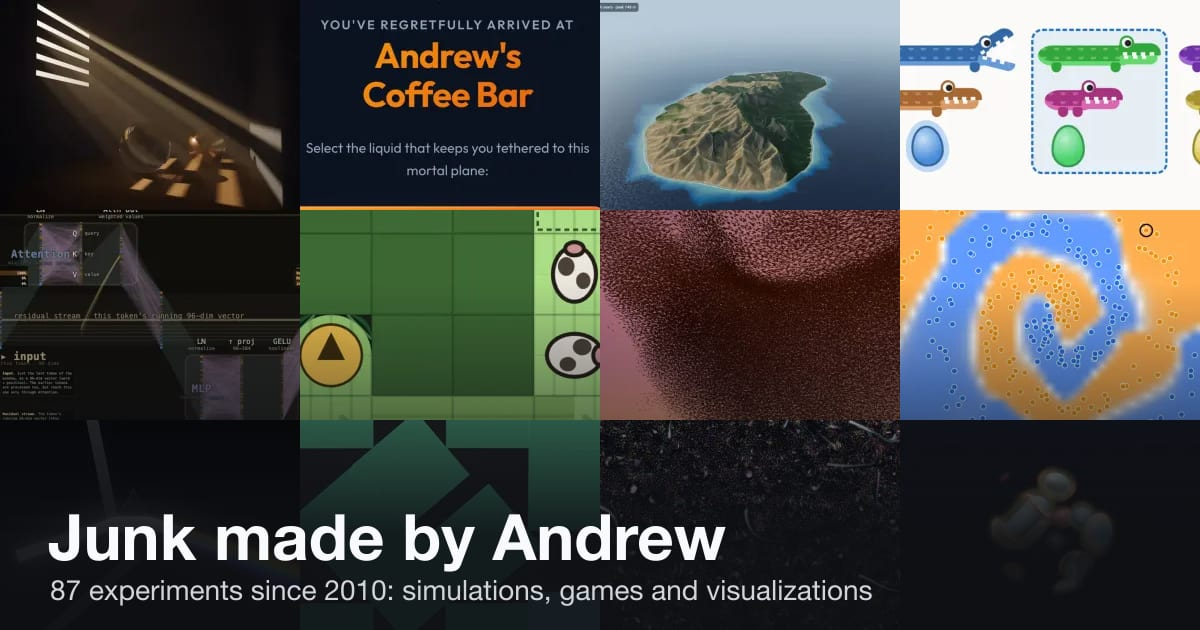
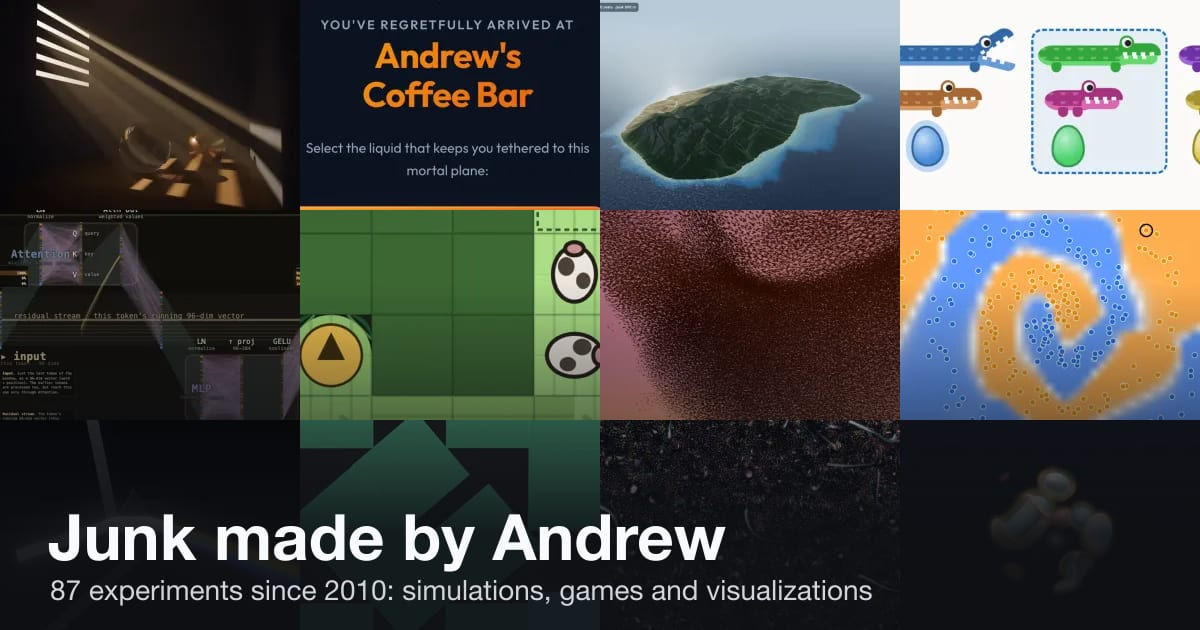
island: README and screenshot for rain drift, river channels and lakes

Changed region(s): [[0.4933, 0.0603, 0.74, 0.3317]]

diff --git a/island/README.md b/island/README.md
@@ -6,12 +6,14 @@ dh/dt = U − K Q^m · S + D ∇²h
 
 where U is uplift, Q is the river's discharge (all the rain falling upstream of a point), S is the slope to the next point downstream and D is how fast soil creeps. River cutting is solved implicitly down the drainage tree (Braun & Willett 2013, the method behind FastScape), so it is stable with 2,000-year steps. Hollows fill into lakes that spill over their lowest rim (priority flood, Barnes 2014), and rivers end at the sea, which they can't cut below.
 
-What the rivers cut away travels downstream and settles in still water: lakes fill in from where rivers enter, and at the coast it spreads down a gentle slope from each river mouth into a shelf. Rain comes in on the wind. Air climbing the island's broad slopes drops more rain, and it dries out as it crosses, so the windward side is wet and the lee is dry. It cools 6.5 °C per kilometer of height. Plants and soil send part of the rain back to the air, following Budyko's curve, so only the rest reaches rivers: in hot, dry places that's almost none on average, though bare ground still sheds up to 30% of its rain in storms. Plant cover follows how the rain compares with what warm air could take up, and roots hold soil, so bare ground erodes about 7 times faster than forest. Biomes come from the same two numbers (Whittaker's biomes, with UNEP's aridity bands): rainforest, forest, conifer forest, savanna, grassland, dry scrub, desert, tundra, and ice and snow. The **Rain** setting is the average over the land; tap a spot to see what grows there and how much rain falls. Turn down the rain to watch the lee become desert badlands, or the temperature to bring tundra down to the coast and snow onto the peaks.
+What the rivers cut away travels downstream and settles in still water: lakes fill in from where rivers enter, and at the coast it spreads down a gentle slope from each river mouth into a shelf. Rain comes in on the wind. Air climbing the island's broad slopes condenses into cloud, which rains out as it drifts on over about a kilometer, so rain spills a little way past each ridge and fades into the lee instead of stopping at the crest. The air dries out as it crosses, so the windward side is wet and the lee is dry. It cools 6.5 °C per kilometer of height. Plants and soil send part of the rain back to the air, following Budyko's curve, so only the rest reaches rivers: in hot, dry places that's almost none on average, though bare ground still sheds up to 30% of its rain in storms. Plant cover follows how the rain compares with what warm air could take up, and roots hold soil, so bare ground erodes about 7 times faster than forest. Biomes come from the same two numbers (Whittaker's biomes, with UNEP's aridity bands): rainforest, forest, conifer forest, savanna, grassland, dry scrub, desert, tundra, and ice and snow. The **Rain** setting is the average over the land; tap a spot to see what grows there and how much rain falls. Turn down the rain to watch the lee become desert badlands, or the temperature to bring tundra down to the coast and snow onto the peaks.
 
 `node island/test.js` checks that at steady state every river's slope matches the exact answer U / (K Q^m), that sediment is conserved to a part in 10¹³, that the windward side is wetter, that Budyko's evaporation hits its known points, and that erosion peaks in semi-arid climates, as Langbein and Schumm found in real river basins (near 300 mm of rain a year), because there's runoff to move soil but too little for plants to hold it.
 
 Tap or click the land to follow a raindrop to the sea and see how much water flows past. Pick **Raise** or **Lower** to sculpt (drag to paint; on a phone, two fingers still zoom and pan), and watch the rivers find new routes. Lower the sea to expose the shelf, or raise it to drown the valleys. The camera drifts around the island until you take it. Space pauses. The URL keeps the island's seed and any changed settings.
 
-The simulation runs on a 256 or 384 point grid (33–50 m apart). The GPU draws the ground three times finer, interpolates the simulated heights smoothly, and adds fine ridged relief that's strongest on steep slopes and smoothed out along valley floors. It shades each pixel from the same climate as the simulation: forest canopy, grass with scattered trees, scrub, red desert soils, layered rock, tundra, snow, beaches and reef flats, darkened in hollows by ambient occlusion computed from the heightmap. That detail is decoration, not simulation. Rivers are drawn at their real width (5 m × √(flow in m³/s), per Leopold and Maddock) in a shallow channel, widened only far away so they don't vanish. The sea and lakes clear up over shallow ground, and foam breaks on the shore.
+The simulation runs on a 256 or 384 point grid (33–50 m apart). The GPU draws the ground three times finer, interpolates the simulated heights smoothly, and adds fine ridged relief that's strongest on steep slopes and smoothed out along valley floors. It shades each pixel from the same climate as the simulation: forest canopy, grass with scattered trees, scrub, red desert soils, layered rock, tundra, snow, beaches and reef flats, darkened in hollows by ambient occlusion computed from the heightmap. That detail is decoration, not simulation. Rivers are cut into the ground from a texture four times finer than the grid, along smoothed, slightly meandering paths: a channel at their real width (5 m × √(flow in m³/s), per Leopold and Maddock), deeper for bigger rivers, with sloping banks, gravel bars on the larger ones, a flat valley floor and a strip of thicker growth along the banks, which is what makes them readable from afar. The sea and lakes clear up over shallow ground, and foam breaks on the shore.
+
+Lakes are rare and short-lived: on a rising, rainy island, a hollow that forms is usually filled with the first river's sediment within a few thousand years (in one run, 96% of lake cells ended that way, half within one 2,000-year step). Dam a valley with **Raise** to make one that lasts.
 
 Simplifications: sediment only settles in lakes and the sea, so rivers never build floodplains or fans on land; the rock is the same everywhere; there are no waves eating at the coast; and plants are always in balance with the climate, since they settle in far less than one 2,000-year step. The rain model is a simple sweep along the wind, not a weather simulation, and evaporation is a rough fit to temperature.
